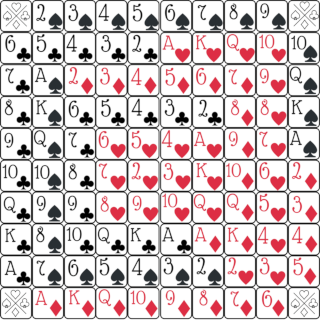
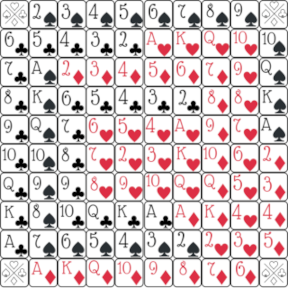
Edited sequence_board_320.png and Form1

diff --git a/client_code/Form1/__init__.py b/client_code/Form1/__init__.py
@@ -84,12 +84,12 @@ class Form1(Form1Template):
       "green_chip": URLMedia("_/theme/chipGreen_border_small.png"),
       "blue_chip": URLMedia("_/theme/chipBlue_border_small.png"),
     }
-    self.IMAGE_WIDTH = 32
-    self.IMAGE_HEIGHT = 32
+    self.IMAGE_WIDTH = 28
+    self.IMAGE_HEIGHT = 28
     # canvas_size is width.
     # iPad 5th gen is 2048x1536, 9th gen is larger
-    self.CANVAS_WIDTH = 320
-    self.CANVAS_HEIGHT = 320  # 64 px/cell, 10 cells
+    self.CANVAS_WIDTH = 288
+    self.CANVAS_HEIGHT = 288
     self.canvas_size = self.CANVAS_WIDTH
     self.canvas_1.height = self.CANVAS_HEIGHT
     self.btn_dead_card.font_size = 12
